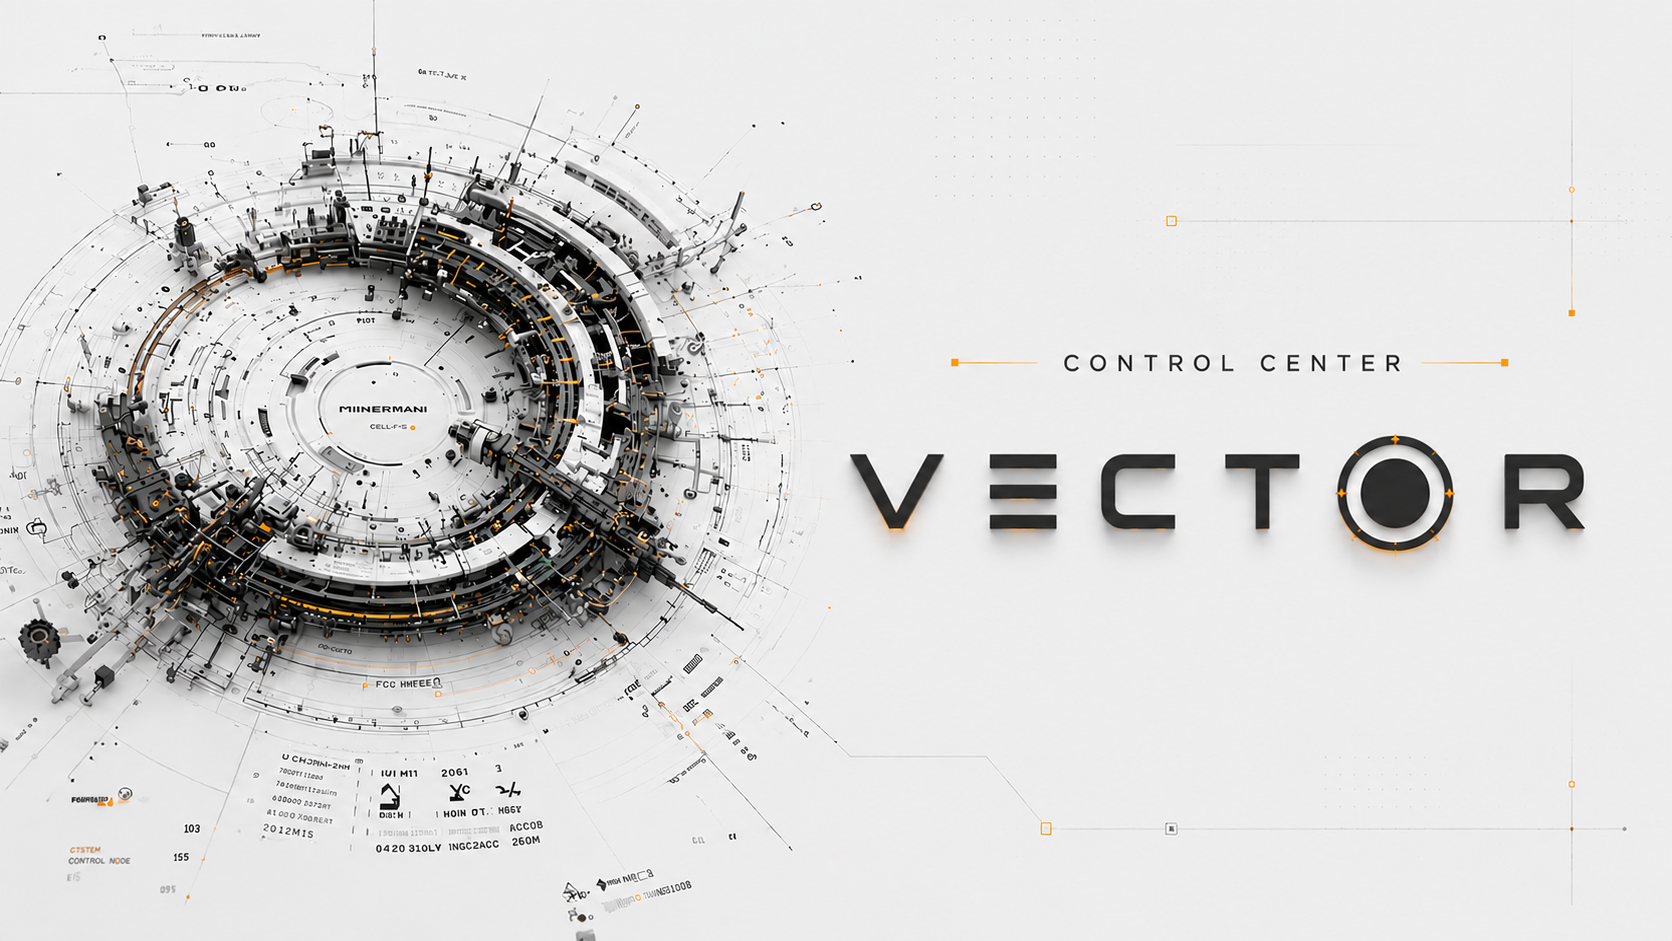
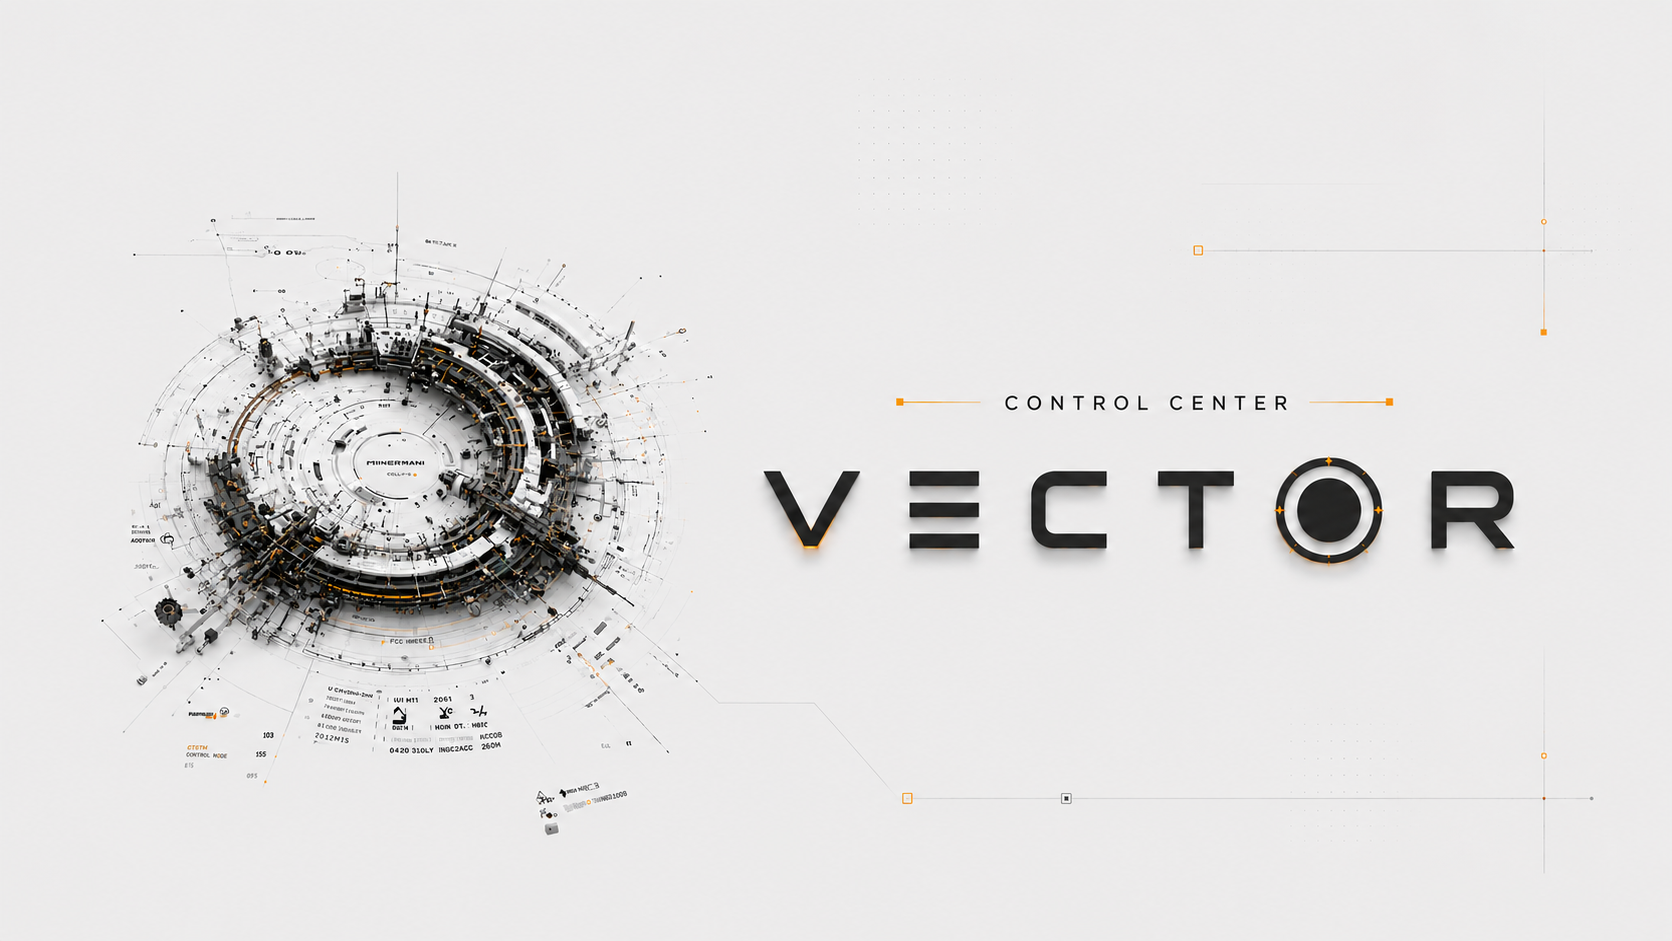
Add files via upload

diff --git a/admin/styles.css b/admin/styles.css
@@ -30,20 +30,17 @@ body{overflow:hidden;background:#f2f2ef}
   position:relative;
   overflow:hidden;
   background-image:url('../assets/admin-bg-light.png');
-  background-position:center;
-  background-size:auto 86vh;
+  background-position:center center;
+  background-size:cover;
   background-repeat:no-repeat;
   transition:background-image .35s ease, color .35s ease;
 }
 :root[data-theme="dark"] .page{background-image:url('../assets/admin-bg-dark.png')}
 
-/* Admin start page: keep the CONTROL CENTER artwork slightly smaller than full-screen. */
+/* Admin start page: use the artwork as a full-screen background. */
 .admin-page{
-  background-size:auto 86vh;
+  background-size:cover;
   background-position:center center;
-}
-@media (min-width: 1500px){
-  .admin-page{background-size:auto 84vh;}
 }
 
 .page::after{
@@ -259,7 +256,7 @@ body{overflow:hidden;background:#f2f2ef}
 }
 @media(max-width:760px){
   body{overflow:auto}
-  .page{min-height:100svh;background-position:left center}
+  .page{min-height:100svh;background-position:center center;background-size:cover}
   .theme-toggle__text{display:none}
   .theme-toggle{right:18px;top:18px}
   .entry-trigger{position:fixed;left:22px;right:22px;bottom:48px;top:auto;transform:none;gap:12px}
@@ -268,5 +265,3 @@ body{overflow:hidden;background:#f2f2ef}
   .auth-modal{align-items:flex-end;justify-content:center;padding:72px 18px 24px;background:rgba(0,0,0,.18)}
   .auth-panel{width:100%;max-height:calc(100svh - 96px)}
 }
-
-.official-link:hover{color:var(--accent);transform:translateY(-1px)}

diff --git a/admin/index.html b/admin/index.html
@@ -26,8 +26,6 @@
       <span class="entry-trigger__line"></span>
     </button>
 
-    
-
     <section class="auth-modal" id="authModal" aria-hidden="true">
       <div class="auth-panel" role="dialog" aria-modal="true" aria-labelledby="authTitle">
         <button class="modal-close" id="closeModal" type="button" aria-label="Закрити">×</button>
